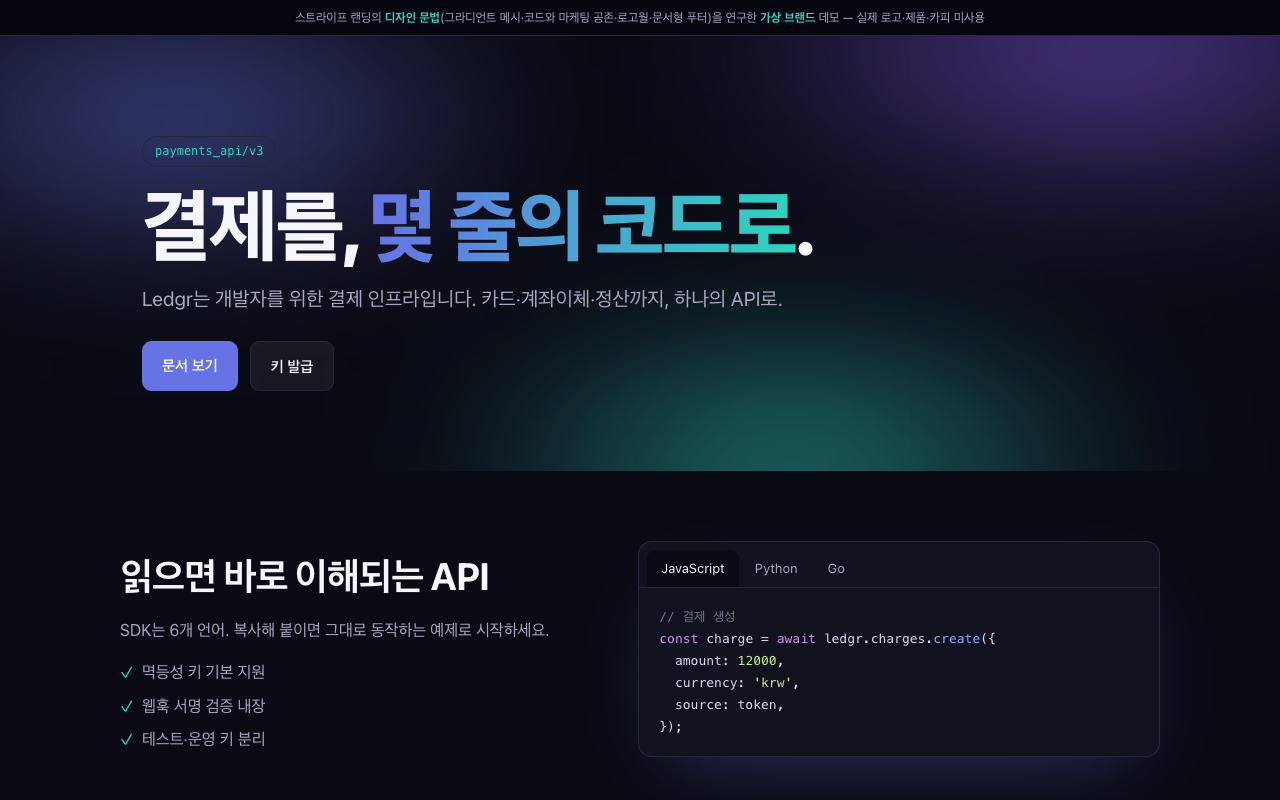
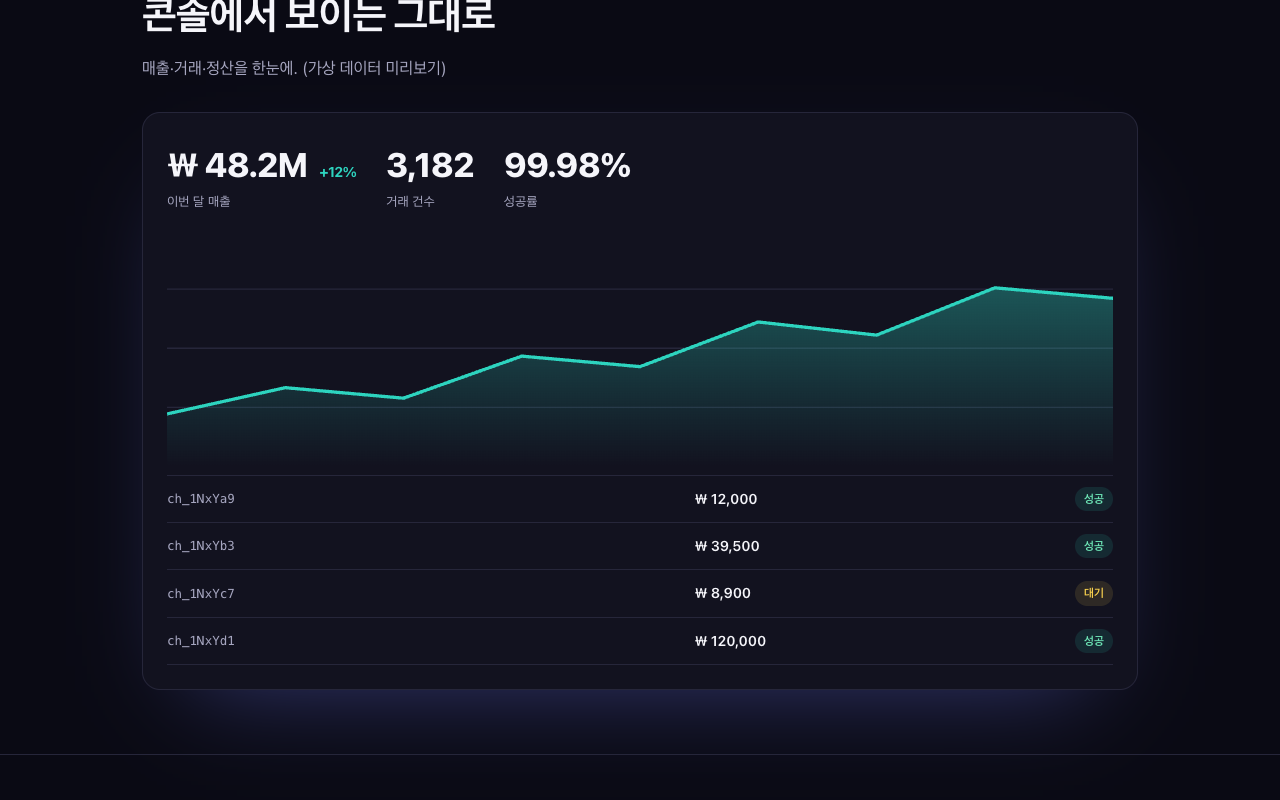
feat(ledgr): 마감 CTA 밴드 + 로고 마퀴 폴리시 + 썸네일(마감)
- 마감 CTA: 푸터 앞 클로징 밴드(그라디언트 메시 + 헤드라인 + npm 스니펫 + 버튼), .rv 리빌.
- 폴리시: 로고월을 느린 CSS 마퀴로(seamless 루프, hover 정지, reduced-motion 정지+wrap). 리빌 리듬 통일.
- 썸네일: public/static/showcases/ledgr.png(1280×800, 대시보드 미리보기).

배치 1~2(워크스루 IO·탭·리빌·5섹션) 무손상. JS 범위 불변(탭+IO 1블록). 이미지 0·다크 테마 유지. yarn demo:sync 폴더 복사. build/golden 그린, demos 격리.

diff --git a/demos/ledgr/index.html b/demos/ledgr/index.html
@@ -136,11 +136,33 @@
   .pchecks span { color: var(--ink-2); font-size: 14px; }
   .pchecks span::before { content: '✓'; color: var(--teal); margin-right: 7px; }
 
-  /* 로고월 — 가상 회사 워드마크(SVG 텍스트) */
+  /* ── 마감 CTA 밴드 (스트라이프식 클로징) ── */
+  .closeband { position: relative; overflow: hidden; border-top: 1px solid var(--line); padding: 96px 22px; text-align: center; }
+  .closeband .mesh2 { position: absolute; inset: -40% -10%; z-index: 0; filter: blur(70px); opacity: .42; background:
+      radial-gradient(38% 40% at 24% 36%, var(--indigo) 0%, transparent 60%),
+      radial-gradient(42% 44% at 78% 26%, var(--indigo-2) 0%, transparent 60%),
+      radial-gradient(40% 40% at 58% 82%, var(--teal) 0%, transparent 60%);
+    animation: mesh 16s ease-in-out infinite alternate; }
+  @media (prefers-reduced-motion: reduce) { .closeband .mesh2 { animation: none; } }
+  .closeband .inner { position: relative; z-index: 1; max-width: 760px; margin: 0 auto; }
+  .closeband h2 { font-size: clamp(32px, 6vw, 62px); font-weight: 800; letter-spacing: -.03em; line-height: 1.04;
+    background: linear-gradient(90deg, #fff, var(--teal)); -webkit-background-clip: text; background-clip: text; color: transparent; }
+  .closeband p { color: var(--ink-2); margin: 16px auto 0; max-width: 30em; }
+  .closeband .row { margin-top: 28px; display: flex; gap: 12px; justify-content: center; flex-wrap: wrap; }
+  .closeband .snippet { margin: 26px auto 0; max-width: 430px; background: #0a0a14; border: 1px solid var(--line); border-radius: 10px;
+    padding: 13px 16px; font-family: var(--mono); font-size: 13.5px; text-align: left; color: #d7d7ec; overflow-x: auto; }
+  .closeband .snippet .pr { color: var(--teal); user-select: none; }
+
+  /* 로고월 — 가상 회사 워드마크(느린 마퀴, hover 시 일시정지·강조) */
   .logos { padding: 50px 0; border-top: 1px solid var(--line); text-align: center; }
   .logos p { color: var(--ink-2); font-size: 13px; letter-spacing: .05em; margin-bottom: 24px; }
-  .logos .row { display: flex; flex-wrap: wrap; gap: 36px 48px; justify-content: center; align-items: center; opacity: .6; }
-  .logos .lg { font-weight: 800; font-size: 22px; letter-spacing: -.02em; color: var(--ink); }
+  .marquee { overflow: hidden; -webkit-mask-image: linear-gradient(90deg, transparent, #000 12%, #000 88%, transparent); mask-image: linear-gradient(90deg, transparent, #000 12%, #000 88%, transparent); }
+  .track { display: flex; gap: 56px; width: max-content; align-items: center; animation: marq 34s linear infinite; }
+  .track:hover { animation-play-state: paused; }
+  @keyframes marq { to { transform: translateX(-50%); } }
+  @media (prefers-reduced-motion: reduce) { .track { animation: none; flex-wrap: wrap; justify-content: center; width: auto; } }
+  .logos .lg { font-weight: 800; font-size: 22px; letter-spacing: -.02em; color: var(--ink); opacity: .55; transition: opacity .25s, color .25s; white-space: nowrap; }
+  .logos .lg:hover { opacity: 1; }
   .logos .lg span { color: var(--indigo); }
 
   /* 문서형 푸터 */
@@ -395,15 +417,32 @@ refund, _ := ledgr.Refunds.<span class="tok-f">Create</span>(&ledgr.RefundParams
   </section>
 
   <section class="logos">
-    <div class="wrap rv">
-      <p>가상의 팀들이 Ledgr로 정산합니다</p>
-      <div class="row">
+    <div class="wrap rv"><p>가상의 팀들이 Ledgr로 정산합니다</p></div>
+    <div class="marquee rv">
+      <div class="track" aria-hidden="false">
         <span class="lg">Northwind<span>.</span></span>
         <span class="lg">Pixel<span>Forge</span></span>
         <span class="lg">한들<span>페이</span></span>
         <span class="lg">Cobalt<span>OS</span></span>
         <span class="lg">모먼트<span>랩</span></span>
+        <span class="lg">Helios<span>Bank</span></span>
+        <span class="lg" aria-hidden="true">Northwind<span>.</span></span>
+        <span class="lg" aria-hidden="true">Pixel<span>Forge</span></span>
+        <span class="lg" aria-hidden="true">한들<span>페이</span></span>
+        <span class="lg" aria-hidden="true">Cobalt<span>OS</span></span>
+        <span class="lg" aria-hidden="true">모먼트<span>랩</span></span>
+        <span class="lg" aria-hidden="true">Helios<span>Bank</span></span>
       </div>
+    </div>
+  </section>
+
+  <section class="closeband">
+    <div class="mesh2" aria-hidden="true"></div>
+    <div class="inner rv">
+      <h2>지금, 첫 결제를 받아보세요.</h2>
+      <p>테스트 키로 5분 만에 첫 결제를. 카드 등록 없이 시작합니다.</p>
+      <div class="snippet"><span class="pr">$ </span>npm i @ledgr/node</div>
+      <div class="row"><a class="btn p" href="#">키 발급</a><a class="btn s" href="#">문서 보기</a></div>
     </div>
   </section>
 

diff --git a/public/showcases/ledgr/index.html b/public/showcases/ledgr/index.html
@@ -136,11 +136,33 @@
   .pchecks span { color: var(--ink-2); font-size: 14px; }
   .pchecks span::before { content: '✓'; color: var(--teal); margin-right: 7px; }
 
-  /* 로고월 — 가상 회사 워드마크(SVG 텍스트) */
+  /* ── 마감 CTA 밴드 (스트라이프식 클로징) ── */
+  .closeband { position: relative; overflow: hidden; border-top: 1px solid var(--line); padding: 96px 22px; text-align: center; }
+  .closeband .mesh2 { position: absolute; inset: -40% -10%; z-index: 0; filter: blur(70px); opacity: .42; background:
+      radial-gradient(38% 40% at 24% 36%, var(--indigo) 0%, transparent 60%),
+      radial-gradient(42% 44% at 78% 26%, var(--indigo-2) 0%, transparent 60%),
+      radial-gradient(40% 40% at 58% 82%, var(--teal) 0%, transparent 60%);
+    animation: mesh 16s ease-in-out infinite alternate; }
+  @media (prefers-reduced-motion: reduce) { .closeband .mesh2 { animation: none; } }
+  .closeband .inner { position: relative; z-index: 1; max-width: 760px; margin: 0 auto; }
+  .closeband h2 { font-size: clamp(32px, 6vw, 62px); font-weight: 800; letter-spacing: -.03em; line-height: 1.04;
+    background: linear-gradient(90deg, #fff, var(--teal)); -webkit-background-clip: text; background-clip: text; color: transparent; }
+  .closeband p { color: var(--ink-2); margin: 16px auto 0; max-width: 30em; }
+  .closeband .row { margin-top: 28px; display: flex; gap: 12px; justify-content: center; flex-wrap: wrap; }
+  .closeband .snippet { margin: 26px auto 0; max-width: 430px; background: #0a0a14; border: 1px solid var(--line); border-radius: 10px;
+    padding: 13px 16px; font-family: var(--mono); font-size: 13.5px; text-align: left; color: #d7d7ec; overflow-x: auto; }
+  .closeband .snippet .pr { color: var(--teal); user-select: none; }
+
+  /* 로고월 — 가상 회사 워드마크(느린 마퀴, hover 시 일시정지·강조) */
   .logos { padding: 50px 0; border-top: 1px solid var(--line); text-align: center; }
   .logos p { color: var(--ink-2); font-size: 13px; letter-spacing: .05em; margin-bottom: 24px; }
-  .logos .row { display: flex; flex-wrap: wrap; gap: 36px 48px; justify-content: center; align-items: center; opacity: .6; }
-  .logos .lg { font-weight: 800; font-size: 22px; letter-spacing: -.02em; color: var(--ink); }
+  .marquee { overflow: hidden; -webkit-mask-image: linear-gradient(90deg, transparent, #000 12%, #000 88%, transparent); mask-image: linear-gradient(90deg, transparent, #000 12%, #000 88%, transparent); }
+  .track { display: flex; gap: 56px; width: max-content; align-items: center; animation: marq 34s linear infinite; }
+  .track:hover { animation-play-state: paused; }
+  @keyframes marq { to { transform: translateX(-50%); } }
+  @media (prefers-reduced-motion: reduce) { .track { animation: none; flex-wrap: wrap; justify-content: center; width: auto; } }
+  .logos .lg { font-weight: 800; font-size: 22px; letter-spacing: -.02em; color: var(--ink); opacity: .55; transition: opacity .25s, color .25s; white-space: nowrap; }
+  .logos .lg:hover { opacity: 1; }
   .logos .lg span { color: var(--indigo); }
 
   /* 문서형 푸터 */
@@ -395,15 +417,32 @@ refund, _ := ledgr.Refunds.<span class="tok-f">Create</span>(&ledgr.RefundParams
   </section>
 
   <section class="logos">
-    <div class="wrap rv">
-      <p>가상의 팀들이 Ledgr로 정산합니다</p>
-      <div class="row">
+    <div class="wrap rv"><p>가상의 팀들이 Ledgr로 정산합니다</p></div>
+    <div class="marquee rv">
+      <div class="track" aria-hidden="false">
         <span class="lg">Northwind<span>.</span></span>
         <span class="lg">Pixel<span>Forge</span></span>
         <span class="lg">한들<span>페이</span></span>
         <span class="lg">Cobalt<span>OS</span></span>
         <span class="lg">모먼트<span>랩</span></span>
+        <span class="lg">Helios<span>Bank</span></span>
+        <span class="lg" aria-hidden="true">Northwind<span>.</span></span>
+        <span class="lg" aria-hidden="true">Pixel<span>Forge</span></span>
+        <span class="lg" aria-hidden="true">한들<span>페이</span></span>
+        <span class="lg" aria-hidden="true">Cobalt<span>OS</span></span>
+        <span class="lg" aria-hidden="true">모먼트<span>랩</span></span>
+        <span class="lg" aria-hidden="true">Helios<span>Bank</span></span>
       </div>
+    </div>
+  </section>
+
+  <section class="closeband">
+    <div class="mesh2" aria-hidden="true"></div>
+    <div class="inner rv">
+      <h2>지금, 첫 결제를 받아보세요.</h2>
+      <p>테스트 키로 5분 만에 첫 결제를. 카드 등록 없이 시작합니다.</p>
+      <div class="snippet"><span class="pr">$ </span>npm i @ledgr/node</div>
+      <div class="row"><a class="btn p" href="#">키 발급</a><a class="btn s" href="#">문서 보기</a></div>
     </div>
   </section>
 

diff --git a/demos/ledgr/README.md b/demos/ledgr/README.md
@@ -7,7 +7,7 @@
 - **개발자에게 파는 디자인**: 마케팅 카피 옆에 **실제 코드 블록**을 나란히 — 코드와 마케팅의 공존.
 - **개발자 콘텐츠**: API 기능 그리드(6종) · 작동 플로우 다이어그램(SVG) · 웹훅 페이로드+검증 예제 · 대시보드 미리보기(SVG 차트·KPI·거래 목록) · 단순 가격 — 전부 정적, 이미지 0.
 - **그라디언트 메시 히어로**: 흐릿한 다색 그라디언트가 천천히 움직이는 배경 + **섹션 스크롤 리빌**.
-- **로고월 + 문서형 푸터**: 신뢰의 로고월, 제품/개발자/회사로 촘촘히 나뉜 푸터.
+- **로고월(느린 마퀴) + 마감 CTA 밴드 + 문서형 푸터**: 로고가 천천히 흐르고(hover 정지), 푸터 앞 클로징 CTA(그라디언트 헤드라인 + 시작 스니펫 `npm i @ledgr/node` + 버튼, 메시 액센트). 모두 CSS 애니(`prefers-reduced-motion` 정지).
 
 ## 어떻게 재현했나
 - 그라디언트 메시 = **CSS `radial-gradient` 다중 + blur + keyframes**(`prefers-reduced-motion` 대응).